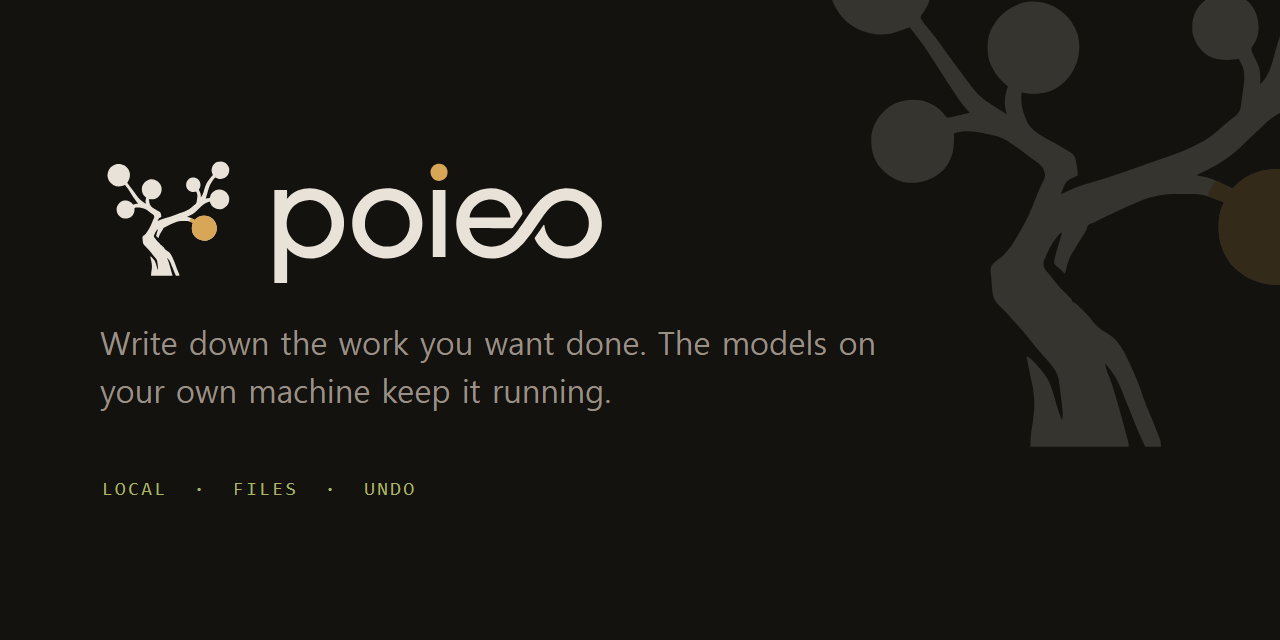
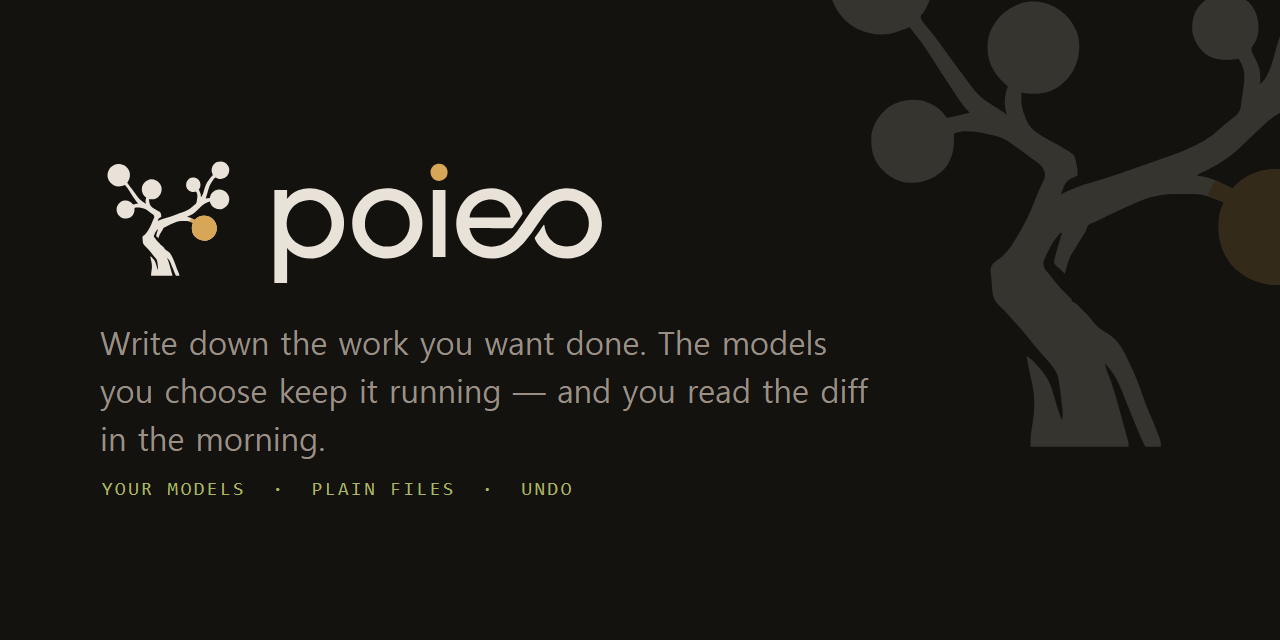
feat: the brand tightens -- one metaphor split two ways, and metadata that matches the positioning
Five fixes from a brand review.

The search result and the share card still said "the models on your machine"
-- the local-only framing the positioning already corrected. Title, og,
descriptions, JSON-LD, the social card and the README tagline now all say the
same thing: the models you choose. One canonical descriptor everywhere: an
autonomous task board.

The brand book stops running on three metaphors. The tree is the picture,
conducting is the voice, and the harness leaves the identity sentence. Amber
stops claiming to mean "running" -- that word belongs to the board's Live
green -- and becomes the ripe bud. The type section stops claiming the site
uses Hanken Grotesk (it deliberately downloads no fonts); Hanken and DM Mono
are for set graphics.

The wordmark's source generation joins brand/ beside the mark's, so the
trace-only rule keeps its referent when the temp folder is cleaned. And two
small polish items: an apple-touch-icon, and the name's pronunciation in the
footer.

diff --git a/site/index.html b/site/index.html
@@ -3,15 +3,15 @@
 <head>
 <meta charset="utf-8">
 <meta name="viewport" content="width=device-width, initial-scale=1">
-<title>poieo — a task board whose workers are the models on your machine</title>
-<meta name="description" content="Write down the work you want done. The models on your own machine keep it running, and you read what they did in the morning.">
+<title>poieo — an autonomous task board for the AI models you choose</title>
+<meta name="description" content="Write down the work you want done. poieo keeps it running around the clock on the models you choose — free local ones, capable ones where they earn it — and you read the diff in the morning.">
 
 <link rel="canonical" href="https://luceinaltis.github.io/poieo/">
 <meta name="theme-color" content="#14120f">
 
 <meta property="og:site_name" content="poieo">
-<meta property="og:title" content="poieo — an autonomous task board for local AI models">
-<meta property="og:description" content="Write down the work you want done. The models on your own machine keep it running, and you read what they did in the morning.">
+<meta property="og:title" content="poieo — an autonomous task board for the AI models you choose">
+<meta property="og:description" content="Write down the work you want done. poieo keeps it running around the clock on the models you choose, and you read the diff in the morning.">
 <meta property="og:image" content="https://luceinaltis.github.io/poieo/img/social.png">
 <meta property="og:image:width" content="1280">
 <meta property="og:image:height" content="640">
@@ -25,7 +25,7 @@
   "@context": "https://schema.org",
   "@type": "SoftwareApplication",
   "name": "poieo",
-  "description": "An autonomous task board: write down the work you want done, and the AI models on your own machine keep it running around the clock. Local-first, everything is a file, every change reviewable.",
+  "description": "An autonomous task board: write down the work you want done, and the AI models you choose keep it running around the clock. Local-first, everything is a file, every change reviewable.",
   "url": "https://luceinaltis.github.io/poieo/",
   "image": "https://luceinaltis.github.io/poieo/img/social.png",
   "applicationCategory": "DeveloperApplication",
@@ -39,6 +39,7 @@
 <!-- The mark's favicon build: the tree on its own dark plate, since a tab's
      ground is not ours to choose. -->
 <link rel="icon" href="img/favicon.svg" type="image/svg+xml">
+<link rel="apple-touch-icon" href="img/apple-touch-icon.png">
 <link rel="stylesheet" href="style.css">
 </head>
 <body>
@@ -236,7 +237,7 @@ prompt: |
     <a href="docs.html">Docs</a> ·
     <a href="https://github.com/luceinaltis/poieo/blob/main/LICENSE">MIT</a>
   </p>
-  <p class="quiet">poieo is Greek <i lang="el">ποιέω</i>, “to make”.</p>
+  <p class="quiet">poieo is Greek <i lang="el">ποιέω</i>, “to make” — say it <i>poy-eh-oh</i>.</p>
 </footer>
 
 <script>

diff --git a/site/docs.html b/site/docs.html
@@ -8,6 +8,7 @@
 <link rel="canonical" href="https://luceinaltis.github.io/poieo/docs.html">
 <meta name="theme-color" content="#14120f">
 <link rel="icon" href="img/favicon.svg" type="image/svg+xml">
+<link rel="apple-touch-icon" href="img/apple-touch-icon.png">
 <link rel="stylesheet" href="style.css">
 </head>
 <body>
@@ -44,7 +45,7 @@
     <a href="https://github.com/luceinaltis/poieo">Source</a> ·
     <a href="https://github.com/luceinaltis/poieo/blob/main/LICENSE">MIT</a>
   </p>
-  <p class="quiet">poieo is Greek <i lang="el">ποιέω</i>, “to make”.</p>
+  <p class="quiet">poieo is Greek <i lang="el">ποιέω</i>, “to make” — say it <i>poy-eh-oh</i>.</p>
 </footer>
 
 <script src="docs.js"></script>

diff --git a/site/social.html b/site/social.html
@@ -15,8 +15,8 @@
   .big { position:absolute; right:-150px; top:-120px; width:640px; opacity:.16; }
 </style></head><body>
   <img class="lockup" src="img/lockup.svg" alt="poieo">
-  <div class="line">Write down the work you want done. The models on your own
-    machine keep it running.</div>
-  <div class="mono">LOCAL &nbsp;·&nbsp; FILES &nbsp;·&nbsp; UNDO</div>
+  <div class="line">Write down the work you want done. The models you choose keep
+    it running — and you read the diff in the morning.</div>
+  <div class="mono">YOUR MODELS &nbsp;·&nbsp; PLAIN FILES &nbsp;·&nbsp; UNDO</div>
   <img class="big" src="img/mark.svg" alt="">
 </body></html>

diff --git a/brand/README.md b/brand/README.md
@@ -1,10 +1,11 @@
 # The poieo brand
 
-**A tree in a harness.** Something alive and a little wilful — branches that
-grow where they decide to, each twig carrying a round bud — held by a frame
-that lets it work safely. The tree is the work growing overnight; the one
-amber bud is the task running right now; the harness is poieo. Every brand
-decision answers to that sentence.
+**The work grows like a tree; you conduct it.** The brand runs on two
+metaphors with separate jobs and no third. The **tree** is the picture:
+something alive and a little wilful, branches growing where they decide to,
+a bud on every twig, one amber where something ripened. **Conducting** is the
+voice: the reader stops doing tasks and starts directing them. Every visual
+decision answers to the tree; every sentence answers to the conductor.
 
 The look began with a photographed kinetic sculpture (a sphere sprouting
 crooked ball-tipped stalks) and was distilled through tree studies into the
@@ -24,6 +25,7 @@ it. To change a mark: generate, get it approved, trace, replace.
 | `site/img/lockup.svg` / `lockup-light.svg` | mark + wordmark, for dark and light grounds |
 | `site/img/social.png` | the 1280×640 share card; its source page is `site/social.html` |
 | `mark-source.jpg` (here) | the generation the mark's SVG is traced from |
+| `wordmark-source.png` (here) | the generation the wordmark's SVG is traced from |
 
 ## Colour
 
@@ -34,22 +36,25 @@ running software are one thing:
 |---|---|---|
 | Ground | `#14120f` | the warm near-black everything sits on |
 | Parchment | `#e8e2d8` | shapes and body text on dark |
-| Ember | `#d8a657` | the one amber bud; every accent |
-| Live | `#a9b665` | something running right now |
+| Ember | `#d8a657` | the one ripe bud; every accent |
+| Live | `#a9b665` | the product's own "running right now" — the board owns this word, not the mark |
 | Ink | `#221e18` | what parchment becomes on light grounds |
 
 ## Type
 
 - **Wordmark**: the traced custom lettering only — never set the name in a font.
-- **Sentences**: Hanken Grotesk (OFL).
-- **Labels, figures, code**: DM Mono (OFL).
+- **On the site**: the system stack, deliberately — the page downloads no
+  fonts, matching its no-dependency build.
+- **In set graphics** (cards, decks, sheets — anything shipped as an image):
+  Hanken Grotesk for sentences, DM Mono for labels and figures (both OFL).
 
 ## Rules
 
 1. **Crooked stays crooked.** Do not straighten the branches, and do not
    redraw them by hand — trace.
-2. **One amber, never more.** The accent means "the one running now"; two
-   ambers make it decoration.
+2. **One amber, never more.** The amber bud is the ripe one — the fruit
+   worth the reader's attention — not a status lamp: on the board, "running"
+   is Live green. Two ambers make it decoration.
 3. **Flat vector.** No gradients, no texture, no shadows.
 4. **On light grounds**, parchment becomes ink; the amber stays.
 5. **No forge imagery.** The blacksmith-workshop register (smiths, anvils,

diff --git a/README.md b/README.md
@@ -3,8 +3,8 @@
   <img src="site/img/lockup-light.svg" alt="poieo" width="380">
 </picture>
 
-**Write down the work you want done. The models on your own machine keep it
-running, and you read what they did in the morning.**
+**Write down the work you want done. The models you choose keep it running
+around the clock, and you read what they did in the morning.**
 
 [![gate](https://github.com/luceinaltis/poieo/actions/workflows/gate.yml/badge.svg)](https://github.com/luceinaltis/poieo/actions/workflows/gate.yml)
 [![license: MIT](https://img.shields.io/badge/license-MIT-a9b665.svg)](LICENSE)
